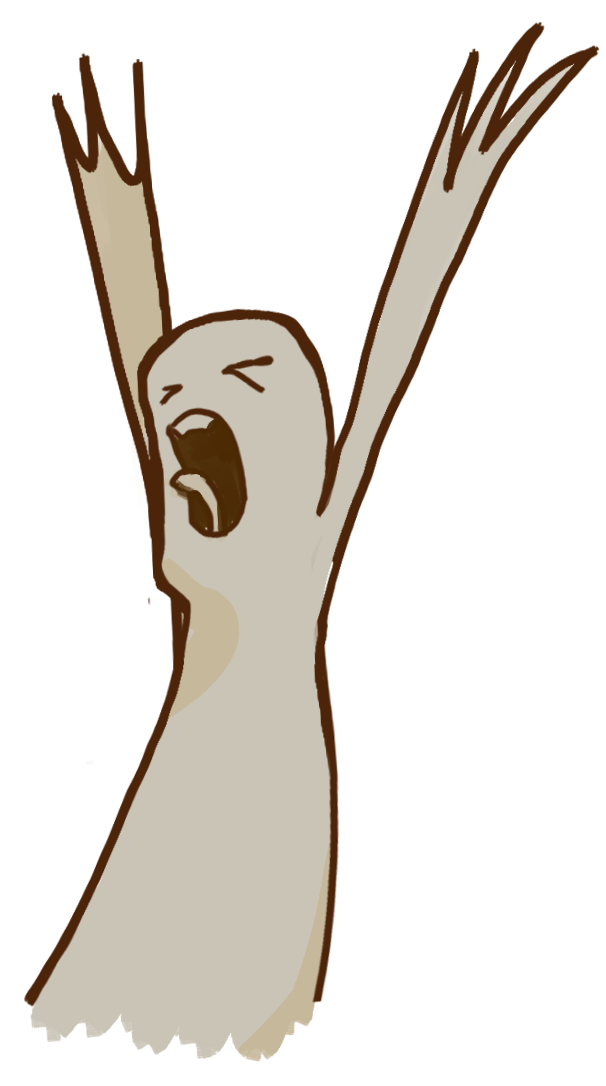
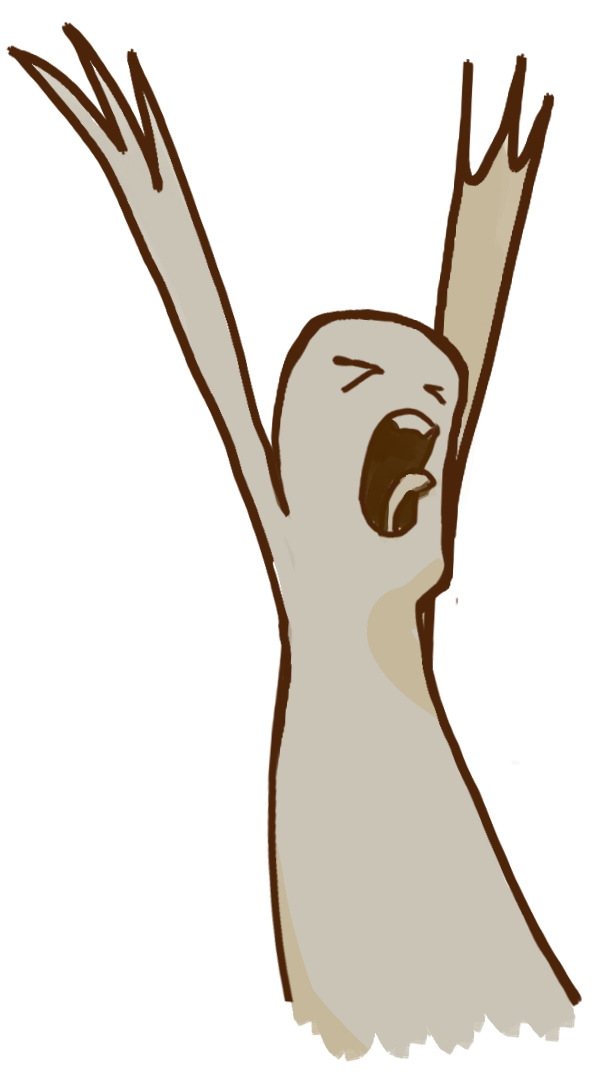
fixed funny guys

diff --git a/core/src/main/java/no/sandramoen/libgdx38/actors/FunnyGuys.java b/core/src/main/java/no/sandramoen/libgdx38/actors/FunnyGuys.java
@@ -11,6 +11,8 @@ import com.badlogic.gdx.utils.Align;
 import no.sandramoen.libgdx38.utils.BaseActor;
 
 public class FunnyGuys extends BaseActor {
+
+
     public FunnyGuys(float x, float y, Stage stage, int z_index, boolean is_right) {
         super(x, y, stage);
 
@@ -39,14 +41,14 @@ public class FunnyGuys extends BaseActor {
         } else if (random <= 4 / 5f) {
             loadImage("funny_guys/funny guy 3");
             setSize(
-                4f * scale * MathUtils.random(0.95f, 1.05f),
-                2f * scale * MathUtils.random(0.95f, 1.05f)
+                1.4f * scale * MathUtils.random(0.95f, 1.05f),
+                1.9f * scale * MathUtils.random(0.95f, 1.05f)
             );
         } else {
             loadImage("funny_guys/funny guy 4");
             setSize(
-                4f * scale * MathUtils.random(0.95f, 1.05f),
-                2f * scale * MathUtils.random(0.95f, 1.05f)
+                1.75f * scale * MathUtils.random(0.95f, 1.05f),
+                2.5f * scale * MathUtils.random(0.95f, 1.05f)
             );
         }
 
@@ -55,6 +57,7 @@ public class FunnyGuys extends BaseActor {
         if (is_right)
             flip();
     }
+
 
     public void start_sing_animation(float beat_speed) {
         float scale_to = 1.2f;
